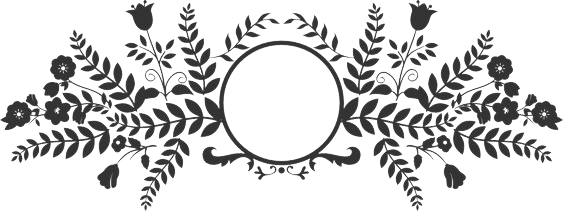
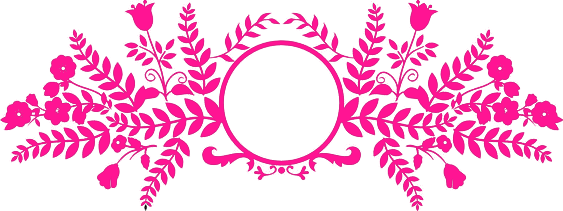
made a few changes
added two images and made the theme deep pink

Changed region(s): [[0.0, 0.0, 1.0, 0.9953], [0.7851, 0.7678, 0.8455, 0.91], [0.151, 0.7678, 0.2114, 0.91]]

diff --git a/socials.html b/socials.html
@@ -17,33 +17,51 @@
               </ul>          
             </nav>
               <section">
-                <p>Below are links to my scoials<br> 
-                  
+                <div class="head">
+                  <p>Below are links to my <a href="https://www.youtube.com/watch?v=NxF5rzfqyYA">socials</a><br> 
+                </div>
                 </p>
                 <div class="socials">
-                  <a href="https://www.tiktok.com/@swabieboo?is_from_webapp=1&sender_device=pc" target="_blank">
-                    <img src="images/tiktok.png" alt="tiktok" width="200px">
-                  </a>
-                  <a href="https://youtu.be/NxF5rzfqyYA?si=zsnGinQ0En812RNS" target="_blank">
-                    <img src="images/youtube.png" alt="youtube" width="100px">
-                  </a>
-                  <a href="https://t.snapchat.com/mMfQhdEE" target="_blank">
-                    <img src="images/snapchat.png" alt="snapchat">
-                  </a> 
-                  <a href="https://www.instagram.com/swabie_boo/" target="_blank"><img src="images/instagram.png" alt="instagram"></a>
-                  <a href="https://www.facebook.com/swabie.sibabs" target="_blank"><img src="images/Facebook-Logo.png" alt="facebook"></a>
-                  <a href="https://twitter.com/swabieboo" target="_blank"><img src="images/Twitter.png" alt="twitter" height="200" width="300"></a>
-                  <a href="https://www.youtube.com/watch?v=xvFZjo5PgG0" target="_blank"><img src="images/onlyfans.png" alt="onlyfans"></a>
+                  <div class="tiktok">
+                    <a href="https://www.tiktok.com/@swabieboo?is_from_webapp=1&sender_device=pc" target="_blank"><img src="images/tiktok.png" alt="tiktok"></a>
+                  </div>
+                  <div class="panther">
+                    <img src="images/pinkpanther.png" alt="pink">
+                  </div>
+                  <div class="youtube">
+                    <a href="https://www.youtube.com/@swabieboo" target="_blank"><img src="images/youtube.png" alt="youtube" width="100px"></a>
+                  </div>
+                  <div class="snapchat">
+                    <a href="https://t.snapchat.com/mMfQhdEE" target="_blank"><img src="images/snapchat.png" alt="snapchat"></a>
+                  </div> 
+                  <div class="insta">
+                    <a href="https://www.instagram.com/swabie_boo/" target="_blank"><img src="images/instagram.png" alt="instagram"></a>
+                  </div>
+                  <div class="facebook">
+                    <a href="https://www.facebook.com/swabie.sibabs" target="_blank"><img src="images/Facebook-Logo.png" alt="facebook"></a>
+                  </div>
+                  <div class="twitter">
+                    <a href="https://twitter.com/swabieboo" target="_blank"><img src="images/Twitter.png" alt="twitter"></a>
+                  </div>
+                 
+                  <div class="onlyfans">
+                    <a href="https://www.youtube.com/watch?v=xvFZjo5PgG0" target="_blank"><img src="images/onlyfans.png" alt="onlyfans"></a>
+                  </div>
                 </div>
                <!-- <figure>
                   <img alt>
                   <figcaption>a picture on my pc</figcaption>
                 </figure>
               </section> -->  
+              <!--add hover effects to the links
+                  put the links in some kind of table/flexbox
+                  change the images to pink using photoshop
+                  add soem graphics maybe
+              -->
 
         </main>
     </body>
     <footer>
-
-    </footer>
+      <p>page under construction</p>
+    </footer> 
 </html>

diff --git a/format.css b/format.css
@@ -1,4 +1,7 @@
 /* styles for all*/
+:root {
+  --text-color: deeppink;
+}
 .nav {  
   list-style-type: none;  
   margin: 0;  
@@ -12,7 +15,7 @@
   
 li a {  
   display: block;  
-  color: pink;  
+  color: pink; 
  font-size:20px;  
   text-align: center;  
   padding: 10px 20px;  
@@ -23,46 +26,145 @@ li a:hover {
   background-color: rgb(156, 60, 156);  
   color: aqua;  
 } 
-p,li,figure figcaption {
-  color: rgb(236, 119, 138);
+p,li {
+  color: var(--text-color);
+     
 }
 
-
 /* for welcome page */
+.left {
+  float: left;
+  position:absolute;
+}
+.right {
+  float: right;
+}
 .main
 {
     font-family: 'Franklin Gothic Medium', 'Arial Narrow', Arial, sans-serif;
-    color: deeppink;
+    color: var(--text-color);
     text-align: center;
-    font-family:'Franklin Gothic Medium', 'Arial Narrow', Arial, sans-serif;
+    margin-left: 310px;
+    margin-right: auto;
+    
+   
 }
+
+.frame {
+  display: block;
+  align-content: center;
+  margin-left: 400px;
+  margin-right: 370;
+}
+.art {
+  margin-top: 100px;
+  margin-right: 65;
+  float: left;
+}
+
 .container {
-  display: grid;
-  align-items: center; 
-  grid-template-columns: 1fr 1fr 1fr;
-  column-gap: 5px;
+  display: flex;
+  align-items:flex-start;
+  flex-direction: row; 
+  width: 46%;
+  gap: 10px;
+  margin-top: 100px;
+  }
+
+ .art2 {
+  margin-top: -310px;
+  float: right;
+  margin-right: -50px;
+ }
+ #body {
+    padding-right: 150px;
  }
  
- .image {
-   max-width: 50%;
+ .snake {
+   max-width: 50%; /*use some clamp*/
    max-height:50%;
  }
 
  .small {
   font-size: 35px;
+  font-family: Arial, Helvetica, sans-serif;
+  margin-bottom:-65px;
  }
  
  .text {
    font-size: 70px;
  }
+ .notes p{
+  font-family: cursive;
+ }
 
 /*for socials page*/
-
-.socials {
-  border: 2ch;
+.head {
+  text-align:start;
+  font-family: monospace;
 }
-.socials a img {
+.socials {
+  display: grid;
+  grid-template-rows:100px, 100px, 100px;
+  grid-template-columns: 100px, 100px, 100px ;
+ 
+}
+.youtube, .tiktok, .snapchat, .insta, .facebook, .twitter {
+  width:40%;
+}
+.youtube, .insta, .twitter {
+  margin-left: -600px;
+}
+.tiktok, .snapchat, .facebook {
+  margin-left: 30px;
+}
+.youtube {
+    grid-column: 3;
+}
+
+.insta {
+    grid-column: 3;
+}
+.socials div a img {
   height: 80px;
   width: 99px;
 }
+.onlyfans {
+    grid-column: 2;
+  grid-row: 3;
+  margin-top: 90px;
+  margin-left: -375px;
+  
+}
+.twitter {
+    grid-column:3;
+}
+.panther {
+  grid-row: 1 / 4;
+  grid-column: 2;
+  margin-left: -400px;
+}
+.socials img:hover {
+  transform: scale(1.2);
+}
 /*for about page*/
+ /*display: flex;
+  flex-direction: column;
+  width: 50%;
+  background-color: aqua;
+  justify-content: space-evenly;
+  align-items:flex-start;
+  width: 50%;
+  /*flex-wrap: wrap;
+  align-content:space-between;
+  gap: 1em; */
+
+  footer {
+    background-color:antiquewhite;
+    text-align: center;
+    font-size: large;
+    font-family:cursive;
+  }
+  footer p{
+    color:pink;
+  }

diff --git a/index.html b/index.html
@@ -7,10 +7,8 @@
         <link rel="stylesheet" href="format.css">
         <title>Nampiima</title>
     </head>
-    <body class="body">
+    <body id="body">
       <main>
-        <img src="images/flowers_one.png" style="float: left;">
-        <img src="images/butterflies.png" style="float: right;">
         <nav>
           <ul class="nav">
           <li class="li"><a href="./index.html">Home</a></li>
@@ -18,31 +16,53 @@
           <li class="li"><a href="./about.html">About</a></li>
           </ul>          
         </nav>
+        <div class="left">
+          <img src="images/flowers_one.png" alt="butterfliesone">
+        </div>
+        <div class="right">
+          <img src="images/flowers_two.png" alt="butterflies2">
+        </div>
         <h1 class="main">Welcome to my website</h1>
-        <div class="container">
-          <div class="snake">
-            <img src="images/Snake.jpg">
-          </div>
-          <div class="text">
-            <p class="small"> My name is</p>
-            <p>Nwambrah Sampiima</p>
-          </div>               
-      <section>
+        <div class="frame">
+          <img src="images/prospect_frame.png">
+        </div>
         <div class="art">
           
-          <!--<img src="images/dandelions.png" alt="flowers">-->
+          <img src="images/dandelions.png" alt="flowers">
           
         </div>
-
-        <p> 
-           <!--Hello, Welcome to my website. I am a person based on earth. <br>-->
+        <div class="container">
+          <div class="snake">
+            <img src="images/duck.jpg" height="280px" width="299px">
+          </div>
+          <div class="text">
+            <p class="small">Hello, my name is</p>
+            <p>Nwambrah Sampiima <br></p>
+          </div> 
           
-            <!--add socials: twitter, youtube , tiktok, -->
-            
-            <!--nest my images in <figure> element to add coments <em> for italic-->
+        </div>
+        <div class="art2">
+          <img src="images/dandelions2.png">
+        </div> 
+        <div class="notes">
+          <p>salutations. I am a person based on earth bafasfs adf adasdf asdf 
+          asdf asdf asdf ad a.s afasdfasdfas asdfas dkjsnadf asdljhf asdljhf askdhf aksdfh askdh 
+          asldjflashdflas sdf lashdf kaslkd akgs kash lkash klashd aksdh falksdfg klasdgh fkalsdg. 
+         </p>
+        </div>             
+      <section>
+        <p> 
+            <!--hr element creates dividers-->          
             <!--add a form-->
+            <!--use pseudo selectors a:active and a:visited-->
+            <!--add animation using the @keyframes-->
+            <!--learn more about focus and flexbox-->
+            <!--clamp -->
         </p>
       </section>     
-      </main>  
+      </main> 
+      <footer>
+        <p>Page under construction</p>
+      </footer> 
     </body>
 </html>

diff --git a/about.html b/about.html
@@ -4,7 +4,7 @@
       <meta name="viewport" content="width=device-width,intial-scale=1.0"/>
       <link rel="stylesheet" href="format.css">
       <link rel="shortcut icon" type="x-icon" href="images/box.png">
-      <title>About you</title>
+      <title>About mee!!!</title>
     </head>
     <body class="yer">
         <main>
@@ -36,5 +36,6 @@
         </main>
     </body>
     <footer>
-    </footer>
+      <p>Page under construction</p>
+    </footer> 
 </html>
